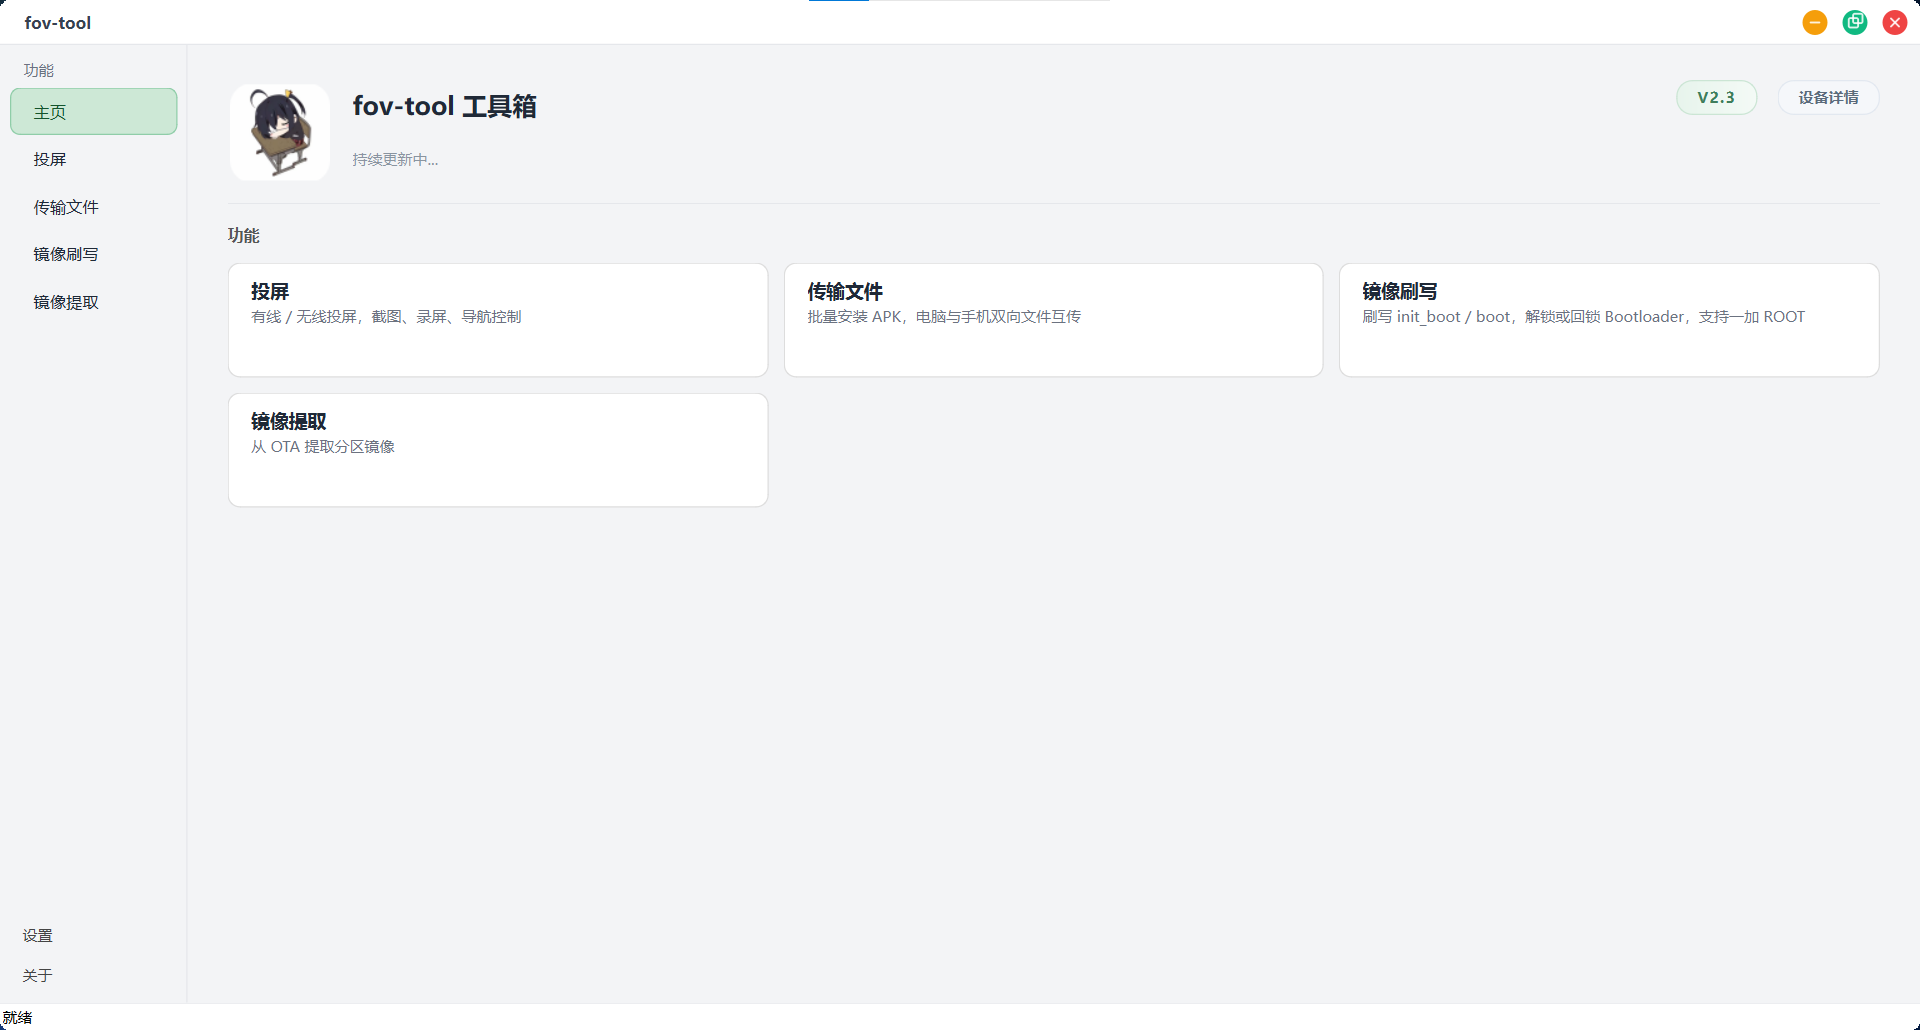
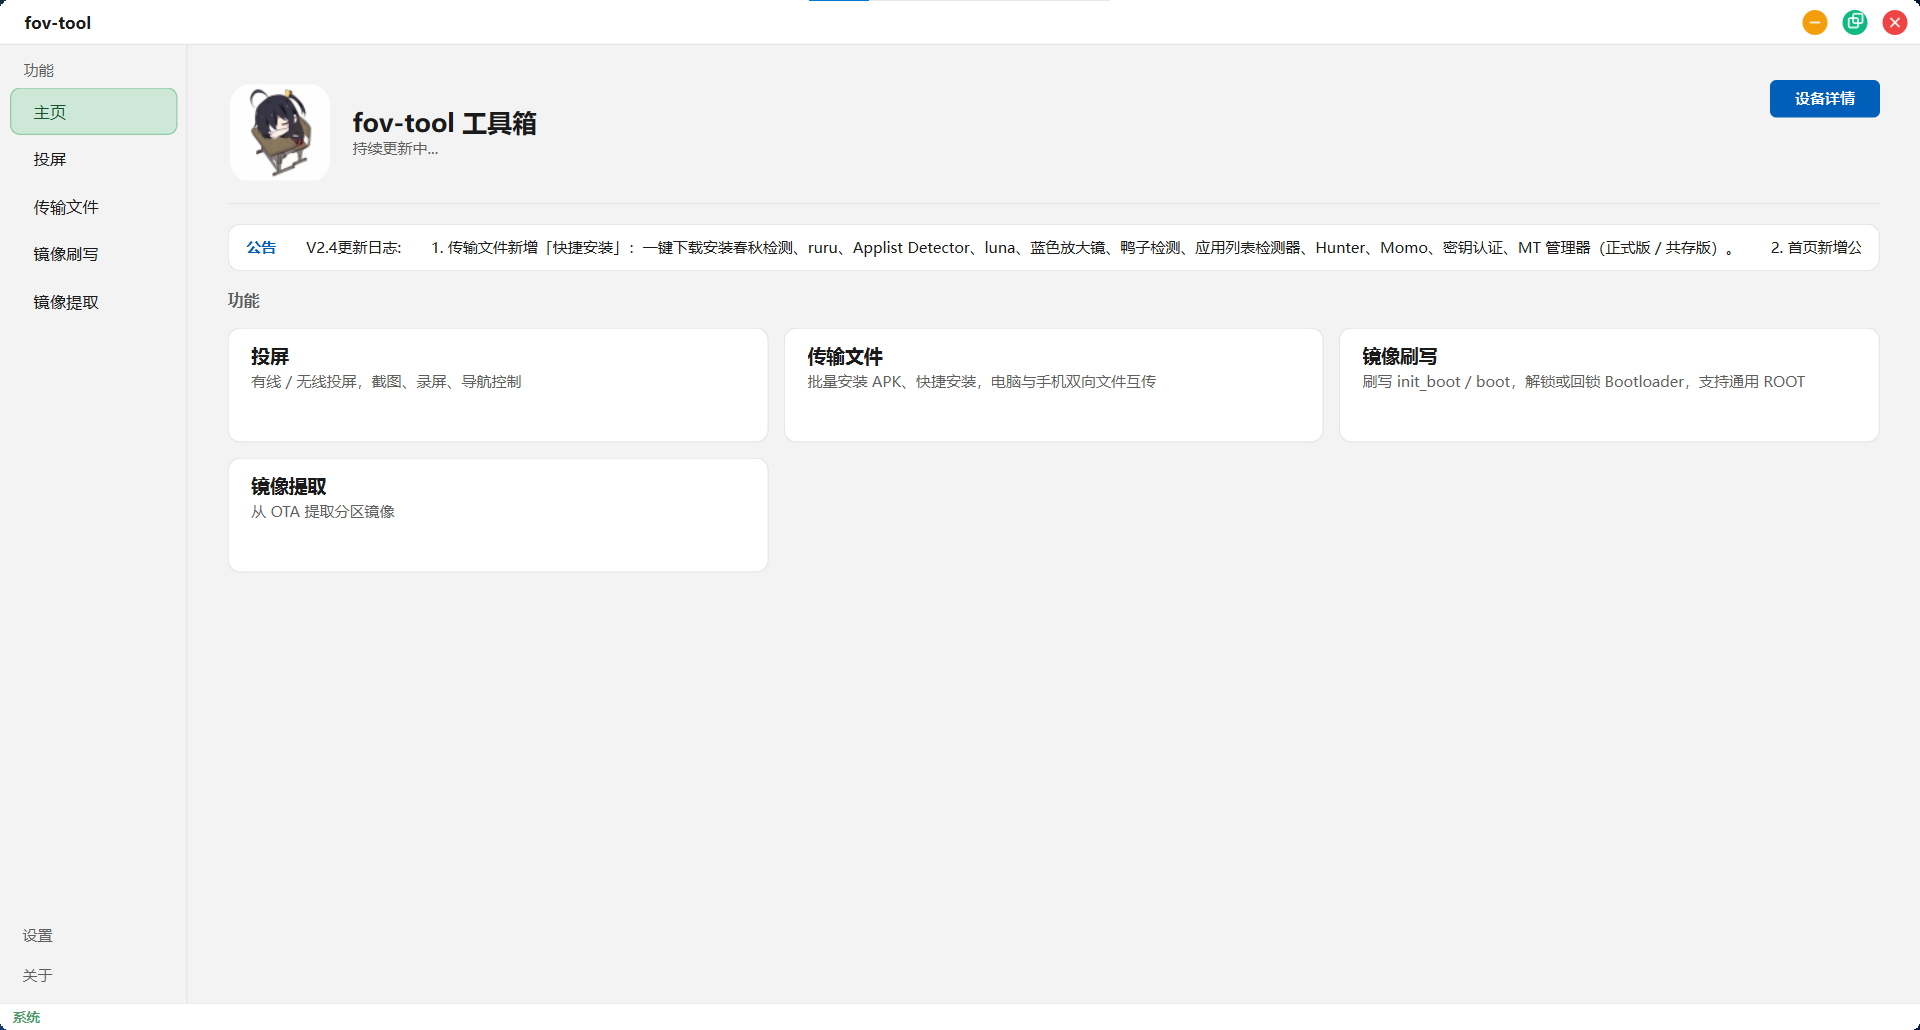
Add files via upload

diff --git a/gxrz.html b/gxrz.html
@@ -958,7 +958,7 @@
                 </div>
 
                 <div class="intro-box collapsed" id="intro-touping">
-                    专为安卓玩家打造的一站式玩机工具箱。支持有线/无线投屏、APK 批量安装与双向文件管理，内置镜像刷写、OTA 镜像提取与一加自动 ROOT，设备状态显示、快捷操作等...（工具持续完善中，后续将上线更丰富的功能）。
+                    专为安卓玩家打造的一站式玩机工具箱。支持有线/无线投屏、APK 批量安装与双向文件管理、快捷安装，内置镜像刷写、OTA 镜像提取与通用 ROOT，设备状态实时显示、快捷操作等...（工具持续完善中，后续将上线更丰富的功能）。
                 </div>
 
                 <div class="entries" id="list-touping"></div>

diff --git a/index.html b/index.html
@@ -20,6 +20,11 @@
   <meta name="description" content="1026 的小站，分享实用的工具、文件与记录。">  <meta name="twitter:image" content="https://hq1026.top/favicon.webp"><!-- 顶部导航：自包含、本站自托管 -->
   <link rel="stylesheet" href="/assets/nap-nav.css">
   <link rel="preload" as="image" href="favicon.webp" fetchpriority="high">
+  <link rel="prefetch" href="changelog.json">
+  <link rel="prefetch" href="touping.json">
+  <link rel="prefetch" href="shendun.json">
+  <link rel="prefetch" href="changeid.json">
+  <link rel="prefetch" href="fangfeng.json">
   <style>
     :root {
       --white: #ffffff;
